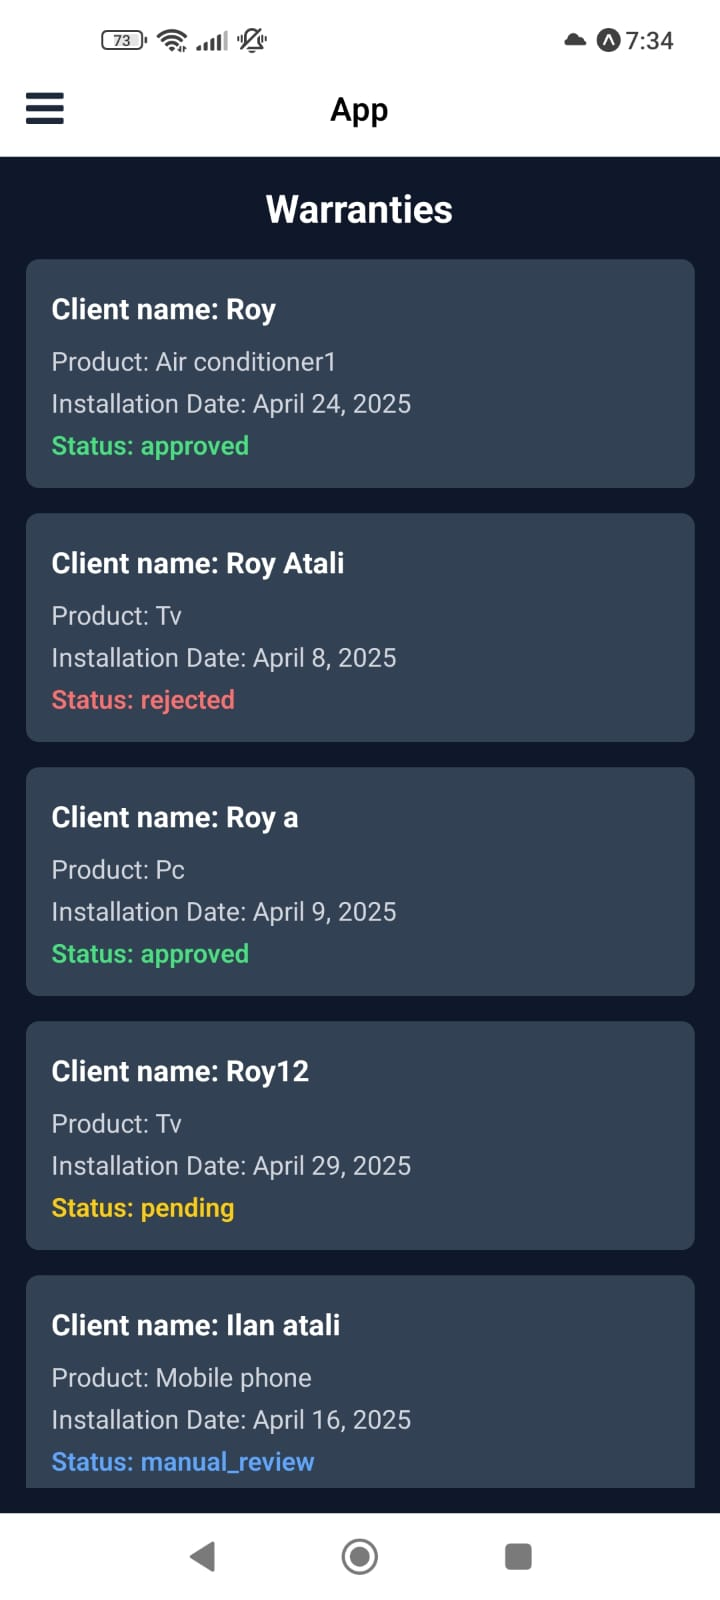
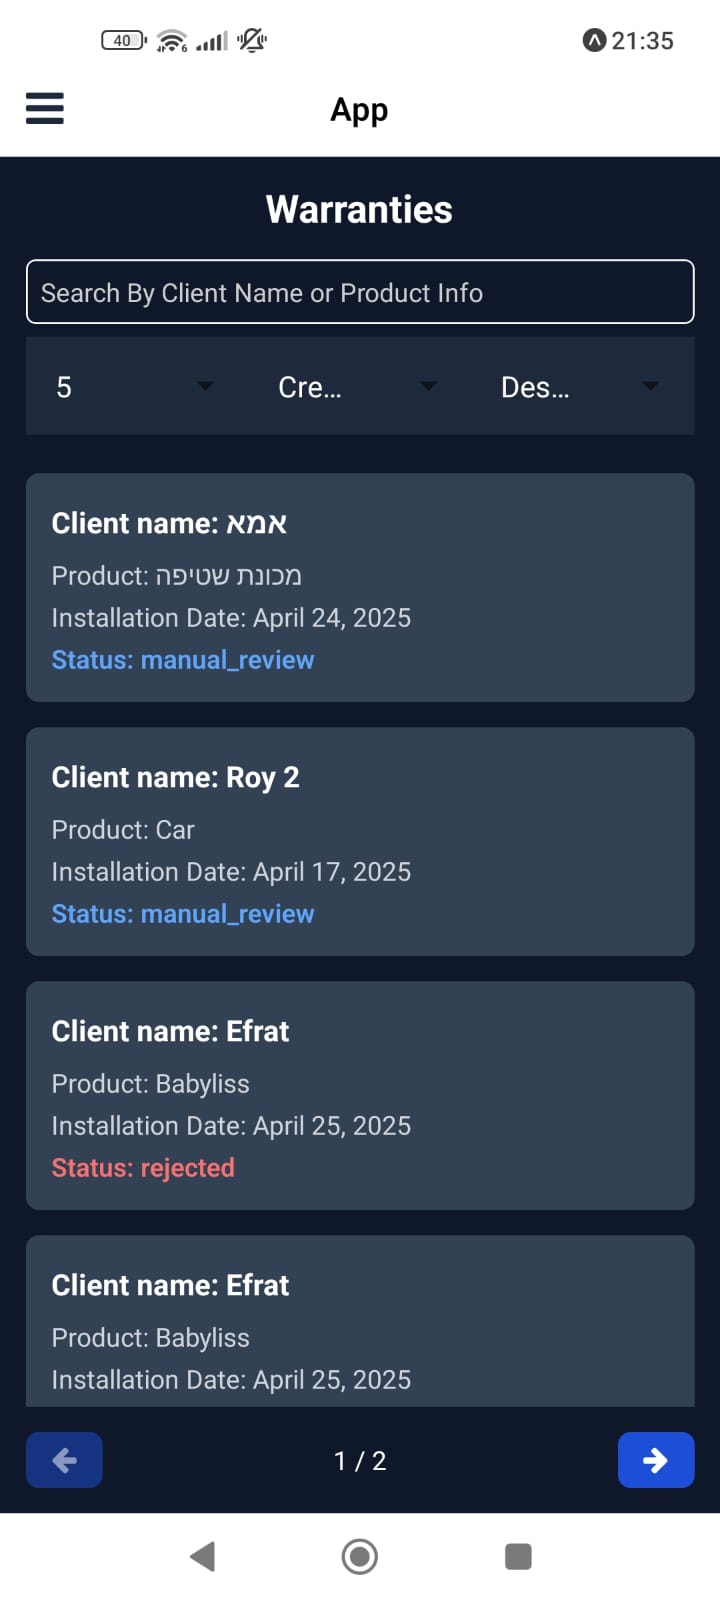
Added pagination in the react native app and updated README.md files in all directories

diff --git a/mobile/app/(protected)/warranties/list.tsx b/mobile/app/(protected)/warranties/list.tsx
@@ -4,16 +4,34 @@ import {
   FlatList,
   ActivityIndicator,
   RefreshControl,
+  TextInput,
+  TouchableOpacity,
 } from "react-native";
 import { cn } from "@/src/utils/cn";
 import useDarkMode from "@/src/hooks/useDarkMode";
 import useFetchWarranties from "@/src/hooks/useFetchWarranties"; // 🔥
 import dayjs from "dayjs";
+import { Picker } from "@react-native-picker/picker";
+import { FontAwesome } from "@expo/vector-icons";
 
 export default function WarrantyListScreen() {
   const { isDarkMode } = useDarkMode();
-  const { warranties, loading, refreshing, refreshWarranties } =
-    useFetchWarranties();
+  const {
+    warranties,
+    loading,
+    refreshing,
+    page,
+    limit,
+    totalPages,
+    sortBy,
+    sortOrder,
+    setPage,
+    setLimit,
+    setSortBy,
+    setSortOrder,
+    handleSearchChange,
+    refreshWarranties,
+  } = useFetchWarranties();
 
   const getStatusColor = (status: string) => {
     switch (status) {
@@ -75,25 +93,79 @@ export default function WarrantyListScreen() {
           Warranties
         </Text>
       )}
-      {/* 🔥 Always show loading at the top */}
-      {loading && (
-        <View className="flex-1 justify-center items-center">
-          <ActivityIndicator size="large" color="#22c55e" className="mb-4" />
+      <View className="mb-4">
+        <TextInput
+          className={cn(
+            "border rounded-md p-2 mb-2",
+            isDarkMode ? "text-white border-white" : "border-black text-black"
+          )}
+          placeholder="Search By Client Name or Product Info"
+          placeholderTextColor={isDarkMode ? "#ccc" : "#666"}
+          onChangeText={handleSearchChange}
+        />
+        <View className="flex-row justify-between mb-2">
+          <Picker
+            selectedValue={limit}
+            style={{
+              flex: 1,
+              color: isDarkMode ? "white" : "black",
+              backgroundColor: isDarkMode ? "#1e293b" : "#f3f4f6",
+            }}
+            onValueChange={(itemValue) => setLimit(Number(itemValue))}
+          >
+            {[1, 2, 3, 5, 10, 15, 20, 25, 30, 35, 40, 45, 50].map((value) => (
+              <Picker.Item key={value} label={value.toString()} value={value} />
+            ))}
+          </Picker>
+
+          <Picker
+            selectedValue={sortBy}
+            style={{
+              flex: 1,
+              color: isDarkMode ? "white" : "black",
+              backgroundColor: isDarkMode ? "#1e293b" : "#f3f4f6",
+            }}
+            onValueChange={(itemValue) => setSortBy(itemValue)}
+          >
+            <Picker.Item label="Created At" value="createdAt" />
+            <Picker.Item label="Product Info" value="productInfo" />
+            <Picker.Item label="Client Name" value="clientName" />
+            <Picker.Item label="Status" value="status" />
+            <Picker.Item label="Updated At" value="updatedAt" />
+          </Picker>
+
+          <Picker
+            selectedValue={sortOrder}
+            style={{
+              flex: 1,
+              color: isDarkMode ? "white" : "black",
+              backgroundColor: isDarkMode ? "#1e293b" : "#f3f4f6",
+            }}
+            onValueChange={(itemValue) => setSortOrder(itemValue)}
+          >
+            <Picker.Item label="Descending" value="desc" />
+            <Picker.Item label="Ascending" value="asc" />
+          </Picker>
         </View>
-      )}
-      <FlatList
-        data={warranties}
-        keyExtractor={(item) => item._id}
-        renderItem={renderWarranty}
-        refreshControl={
-          <RefreshControl
-            refreshing={refreshing}
-            onRefresh={refreshWarranties}
-            tintColor={isDarkMode ? "#fff" : "#000"}
-          />
-        }
-        ListEmptyComponent={
-          !loading ? (
+      </View>
+
+      {loading ? (
+        <View className="flex-1 justify-center items-center">
+          <ActivityIndicator size="large" color="#22c55e" />
+        </View>
+      ) : (
+        <FlatList
+          data={warranties}
+          keyExtractor={(item) => item._id}
+          renderItem={renderWarranty}
+          refreshControl={
+            <RefreshControl
+              refreshing={refreshing}
+              onRefresh={refreshWarranties}
+              tintColor={isDarkMode ? "#fff" : "#000"}
+            />
+          }
+          ListEmptyComponent={
             <Text
               className={cn(
                 "text-center mt-20 text-lg",
@@ -102,9 +174,48 @@ export default function WarrantyListScreen() {
             >
               No warranties found.
             </Text>
-          ) : null
-        }
-      />
+          }
+        />
+      )}
+
+      {/* Pagination controls */}
+      {!loading && totalPages > 1 && (
+        <View className="flex-row justify-between items-center mt-4">
+          {/* Previous Button */}
+          <TouchableOpacity
+            disabled={page === 1}
+            onPress={() => setPage(Math.max(1, page - 1))}
+            className={cn(
+              "flex-row items-center bg-blue-700 py-2 px-4 rounded-lg",
+              page === 1 && "opacity-50"
+            )}
+          >
+            <FontAwesome name="arrow-left" size={16} color="white" />
+          </TouchableOpacity>
+
+          {/* Page Info */}
+          <Text
+            className={cn(
+              "text-center my-auto",
+              isDarkMode ? "text-white" : "text-black"
+            )}
+          >
+            {page} / {totalPages}
+          </Text>
+
+          {/* Next Button */}
+          <TouchableOpacity
+            disabled={page === totalPages}
+            onPress={() => setPage(Math.min(totalPages, page + 1))}
+            className={cn(
+              "flex-row items-center bg-blue-700 py-2 px-4 rounded-lg",
+              page === totalPages && "opacity-50"
+            )}
+          >
+            <FontAwesome name="arrow-right" size={16} color="white" />
+          </TouchableOpacity>
+        </View>
+      )}
     </View>
   );
 }

diff --git a/mobile/src/hooks/useFetchWarranties.ts b/mobile/src/hooks/useFetchWarranties.ts
@@ -2,39 +2,34 @@ import { useEffect, useState } from "react";
 import { Warranty } from "@/src/types/warranty.types";
 import useWarrantiesService from "@/src/hooks/useWarrantiesService";
 import Toast from "react-native-toast-message";
+import { debounce } from "lodash";
 
 export default function useFetchWarranties() {
   const { getAllUserWarranties } = useWarrantiesService();
   const [warranties, setWarranties] = useState<Warranty[]>([]);
   const [loading, setLoading] = useState(false);
   const [refreshing, setRefreshing] = useState(false);
-
-  const fetchWarranties = async () => {
-    try {
-      setLoading(true);
-      const { data } = await getAllUserWarranties();
-      setWarranties(data);
-    } catch (error: any) {
-      const message =
-        error?.response?.data?.message ||
-        "❌ Warranties fetch failed. Please try again.";
-
-      Toast.show({
-        type: "error",
-        text1: "Error",
-        text2: message,
-        visibilityTime: 5000,
-      });
-    } finally {
-      setLoading(false);
-    }
-  };
+  const [page, setPage] = useState(1);
+  const [limit, setLimit] = useState(10);
+  const [total, setTotal] = useState(0);
+  const [search, setSearch] = useState("");
+  const [sortBy, setSortBy] = useState<
+    "clientName" | "productInfo" | "status" | "createdAt" | "updatedAt"
+  >("createdAt");
+  const [sortOrder, setSortOrder] = useState<"asc" | "desc">("desc");
 
   const refreshWarranties = async () => {
     setRefreshing(true);
     try {
-      const { data } = await getAllUserWarranties();
-      setWarranties(data);
+      const { data } = await getAllUserWarranties({
+        page,
+        limit,
+        search,
+        sortBy,
+        sortOrder,
+      });
+      setWarranties(data.data);
+      setTotal(data.total);
     } catch (error: any) {
       const message =
         error?.response?.data?.message ||
@@ -52,8 +47,58 @@ export default function useFetchWarranties() {
   };
 
   useEffect(() => {
-    fetchWarranties();
-  }, []);
+    const fetchWarranties = async () => {
+      try {
+        setLoading(true);
+        const { data } = await getAllUserWarranties({
+          page,
+          limit,
+          search,
+          sortBy,
+          sortOrder,
+        });
 
-  return { warranties, loading, refreshing, refreshWarranties };
+        setWarranties(data.data);
+        setTotal(data.total);
+      } catch (error: any) {
+        const message =
+          error?.response?.data?.message ||
+          "❌ Warranties fetch failed. Please try again.";
+
+        Toast.show({
+          type: "error",
+          text1: "Error",
+          text2: message,
+          visibilityTime: 5000,
+        });
+      } finally {
+        setLoading(false);
+      }
+    };
+    fetchWarranties();
+  }, [page, limit, search, sortBy, sortOrder]);
+
+  const handleSearchChange = debounce((text: string) => {
+    setPage(1);
+    setSearch(text);
+  }, 500);
+
+  const totalPages = Math.ceil(total / limit);
+
+  return {
+    warranties,
+    loading,
+    totalPages,
+    refreshing,
+    page,
+    limit,
+    sortBy,
+    sortOrder,
+    setPage,
+    setLimit,
+    setSortBy,
+    setSortOrder,
+    handleSearchChange,
+    refreshWarranties,
+  };
 }

diff --git a/mobile/src/hooks/useWarrantiesService.ts b/mobile/src/hooks/useWarrantiesService.ts
@@ -17,11 +17,21 @@ const useWarrantiesService = () => {
     }
   };
 
-  const getAllUserWarranties = async () => {
+  const getAllUserWarranties = async (params?: {
+    page?: number;
+    limit?: number;
+    search?: string;
+    sortBy?:
+      | "clientName"
+      | "productInfo"
+      | "status"
+      | "createdAt"
+      | "updatedAt";
+    sortOrder?: "asc" | "desc";
+  }) => {
     try {
       const { userWarranties } = API_URLS;
-
-      return axiosPrivate.get(userWarranties);
+      return axiosPrivate.get(userWarranties, { params });
     } catch (error) {
       throw error;
     }

diff --git a/backend/src/warranties/warranties.controller.ts b/backend/src/warranties/warranties.controller.ts
@@ -106,7 +106,7 @@ export class WarrantiesController {
       `warranties 0-${transformedData.length - 1}/${total}`,
     );
 
-    return transformedData;
+    return { data: transformedData, total };
   }
 
   @Get(':id')
@@ -154,6 +154,7 @@ export class WarrantiesController {
       'Content-Range',
       `warranties 0-${transformedData.length - 1}/${total}`,
     );
+
     return { data: transformedData, total };
   }
 

diff --git a/README.md b/README.md
@@ -59,7 +59,7 @@ Admin Panel and Swagger API Docs can take a while to load because they are host 
 | :------------------- | :------------------------------------------------------------------------------------------------------------------------- |
 | **Admin Panel**      | [https://tadiran-assignment-react-admin.onrender.com/#/login](https://tadiran-assignment-react-admin.onrender.com/#/login) |
 | **Swagger API Docs** | [https://tadiran-assignment.onrender.com/api/swagger/docs](https://tadiran-assignment.onrender.com/api/swagger/docs)       |
-| **Mobile App**       | [Expo Project Link](https://expo.dev/accounts/royatali94/projects/frontend/builds/35f7da5f-47a4-4a63-9d5d-ddaddd134337)    |
+| **Mobile App**       | [Expo Project Link](https://expo.dev/accounts/royatali94/projects/frontend/builds/65d467b5-45ab-4c48-898c-da4e4ef46497)    |
 
 ---
 
